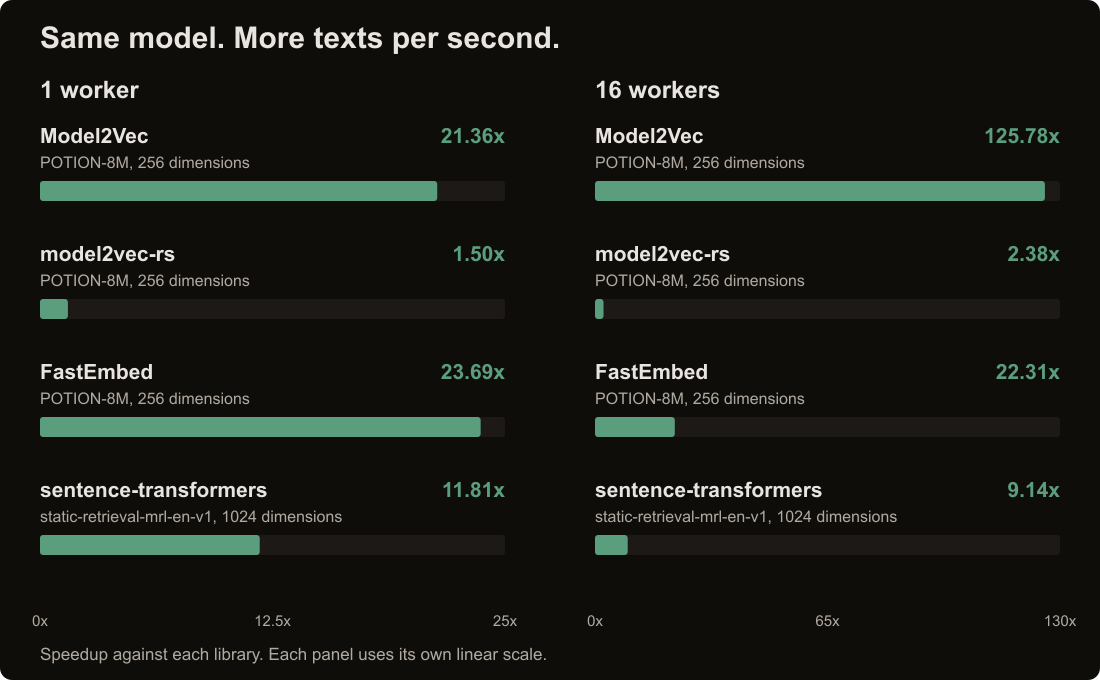
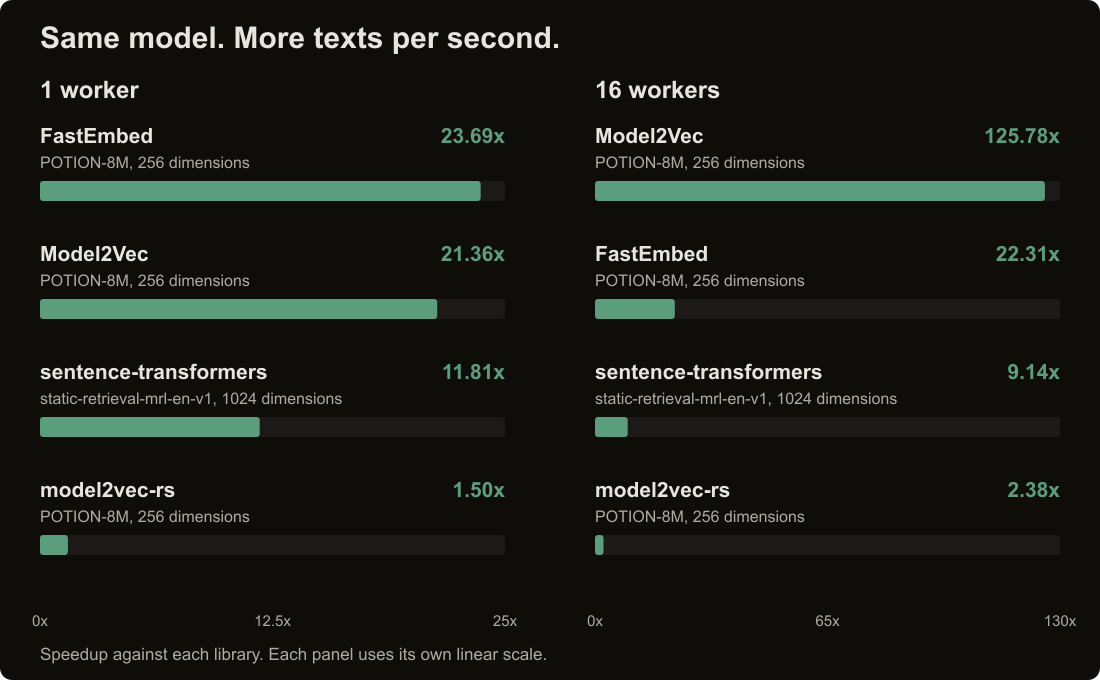
docs: chart absolute fse rates and rank library speedups
Claude-Session: https://claude.ai/code/session_01GmNVELnYYJrhSRai3aBhk4

diff --git a/media/readme/generate.py b/media/readme/generate.py
@@ -75,7 +75,12 @@ def speed_panel(theme, data):
         parts += [
             text(left, 98, f"{workers} worker" + ("s" if workers != 1 else ""), 24, weight=700)
         ]
-        for index, row in enumerate(r for r in data["comparisons"] if r["workers"] == workers):
+        rows = sorted(
+            (r for r in data["comparisons"] if r["workers"] == workers),
+            key=lambda r: r["paired_speedup_median"],
+            reverse=True,
+        )
+        for index, row in enumerate(rows):
             y = 143 + index * 118
             ratio = row["paired_speedup_median"]
             model = "POTION-8M" if row["dimensions"] == 256 else "static-retrieval-mrl-en-v1"
@@ -117,8 +122,72 @@ def speed_panel(theme, data):
     (out / f"library-speed-{theme}.svg").write_text("\n".join(parts) + "\n")
 
 
+def dtype_panel(theme, data):
+    global colors
+    colors = {k: v["value"] for k, v in brand[theme].items()}
+    left, width, maximum = 210, 700, 1_500_000
+    parts = [
+        '<svg xmlns="http://www.w3.org/2000/svg" width="1100" height="540" '
+        'viewBox="0 0 1100 540" role="img" aria-labelledby="title desc">',
+        '<title id="title">fse performance on longer texts</title>',
+        '<desc id="desc">Absolute texts per second for float32, float16 and int8 model '
+        "tables, with one and sixteen workers. All six bars use the same linear scale.</desc>",
+        f'<rect width="1100" height="540" rx="12" fill="{colors["bg"]}"/>',
+        '<g font-family="Geist, Arial, sans-serif">',
+        text(40, 48, "Performance on longer texts", 30, weight=700),
+        text(
+            40,
+            80,
+            "fse only. POTION-8M, 256 dimensions. Float32 output.",
+            18,
+            colors["text-secondary"],
+        ),
+    ]
+    for workers, x, color in ((1, 210, colors["text-secondary"]), (16, 420, colors["accent"])):
+        parts += [
+            f'<rect x="{x}" y="102" width="18" height="18" rx="3" fill="{color}"/>',
+            text(x + 28, 118, f"{workers} worker" + ("s" if workers != 1 else ""), 18),
+        ]
+    for index, dtype in enumerate(("float32", "float16", "int8")):
+        y = 150 + index * 110
+        parts += [text(40, y + 43, dtype, 23, weight=700)]
+        for row in (r for r in data["dtypes"]["cells"] if r["dtype"] == dtype):
+            bar_y = y + (36 if row["workers"] == 16 else 0)
+            value = row["texts_per_second"]
+            color = colors["accent"] if row["workers"] == 16 else colors["text-secondary"]
+            bar_width = width * value / maximum
+            parts += [
+                f'<rect x="{left}" y="{bar_y}" width="{bar_width:.3f}" height="24" rx="3" fill="{color}"/>',
+                text(left + bar_width + 12, bar_y + 19, f"{value:,.0f}", 20, weight=700),
+            ]
+    parts += [f'<path d="M{left} 465 H{left + width}" stroke="{colors["border"]}"/>']
+    for value in (0, 500_000, 1_000_000, 1_500_000):
+        parts += [
+            text(
+                left + width * value / maximum,
+                488,
+                f"{value:,}",
+                16,
+                colors["text-secondary"],
+                anchor="middle",
+            )
+        ]
+    parts += [
+        text(
+            40,
+            526,
+            "Texts per second. All bars use the same linear scale, starting at zero.",
+            17,
+            colors["text-secondary"],
+        ),
+        "</g></svg>",
+    ]
+    (out / f"dtype-speed-{theme}.svg").write_text("\n".join(parts) + "\n")
+
+
 speed_source = ROOT / "docs/benchmarks/readme-speed.json"
 if speed_source.exists():
     speed_data = json.loads(speed_source.read_text())
     for speed_theme in ("light", "dark"):
         speed_panel(speed_theme, speed_data)
+        dtype_panel(speed_theme, speed_data)

diff --git a/media/readme/README.md b/media/readme/README.md
@@ -25,3 +25,7 @@ rsvg-convert media/readme/vectors-and-labels-light.svg -o media/readme/vectors-a
 Repeat for the dark theme. Fonts use Geist, then Arial or sans-serif as fallback.
 
 Export the two library charts with the same `rsvg-convert` command, using their `library-speed` file names.
+
+`dtype-speed` shows the six longer-text rates on one shared linear scale.
+Its source is the `dtypes` section of the same compact summary.
+Export its light and dark SVGs to PNG with `rsvg-convert` too.
